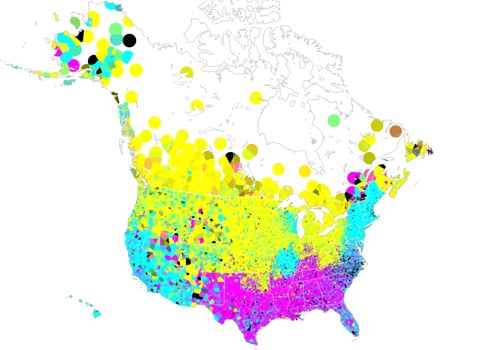
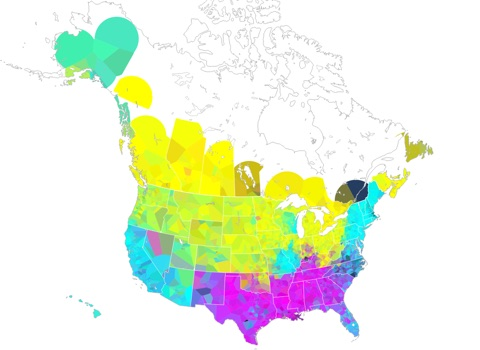
ZIP Voronoi: per-state diagrams and a 15-response minimum by default
Claude-Session: https://claude.ai/code/session_01JpWq1jKXNV9syim92nfxii

diff --git a/experiments/zip-voronoi.html b/experiments/zip-voronoi.html
@@ -38,13 +38,13 @@
 		</div>
 		<div class="slider-row">
 			<span>Separate diagrams for each</span>
-			<label><input type="radio" name="partition" value="country" checked> country</label>
-			<label><input type="radio" name="partition" value="state"> state / province</label>
+			<label><input type="radio" name="partition" value="country"> country</label>
+			<label><input type="radio" name="partition" value="state" checked> state / province</label>
 		</div>
 		<div class="slider-row">
 			<label for="min-n">Hide cells with fewer than</label>
-			<input type="range" id="min-n" min="1" max="20" value="1">
-			<span id="min-n-label">1 response</span>
+			<input type="range" id="min-n" min="1" max="20" value="15">
+			<span id="min-n-label">15 responses</span>
 		</div>
 		<div class="status" id="status">Loading…</div>
 	</section>
